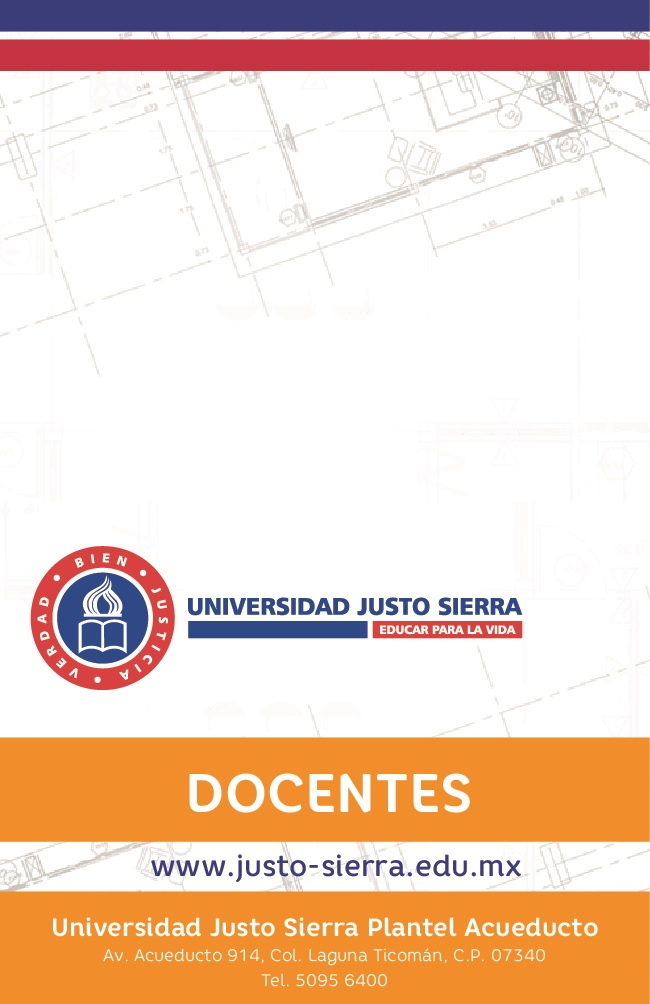
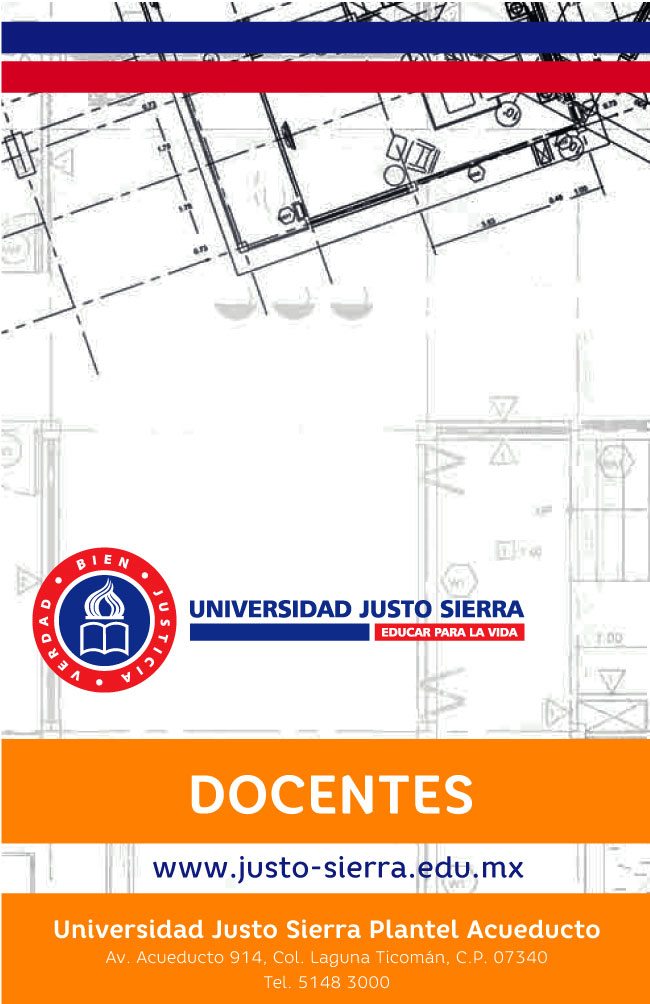
cambios en diseño de credenciales de universidad

diff --git a/SIPAA_CS/SIPAA_CS/Properties/Resources.Designer.cs b/SIPAA_CS/SIPAA_CS/Properties/Resources.Designer.cs
@@ -413,19 +413,9 @@ namespace SIPAA_CS.Properties {
         /// <summary>
         ///   Busca un recurso adaptado de tipo System.Drawing.Bitmap.
         /// </summary>
-        internal static System.Drawing.Bitmap credencialatras {
+        internal static System.Drawing.Bitmap credfirmada {
             get {
-                object obj = ResourceManager.GetObject("credencialatras", resourceCulture);
-                return ((System.Drawing.Bitmap)(obj));
-            }
-        }
-        
-        /// <summary>
-        ///   Busca un recurso adaptado de tipo System.Drawing.Bitmap.
-        /// </summary>
-        internal static System.Drawing.Bitmap credencialatrasfirmada {
-            get {
-                object obj = ResourceManager.GetObject("credencialatrasfirmada", resourceCulture);
+                object obj = ResourceManager.GetObject("credfirmada", resourceCulture);
                 return ((System.Drawing.Bitmap)(obj));
             }
         }
@@ -1313,16 +1303,6 @@ namespace SIPAA_CS.Properties {
         /// <summary>
         ///   Busca un recurso adaptado de tipo System.Drawing.Bitmap.
         /// </summary>
-        internal static System.Drawing.Bitmap odonm {
-            get {
-                object obj = ResourceManager.GetObject("odonm", resourceCulture);
-                return ((System.Drawing.Bitmap)(obj));
-            }
-        }
-        
-        /// <summary>
-        ///   Busca un recurso adaptado de tipo System.Drawing.Bitmap.
-        /// </summary>
         internal static System.Drawing.Bitmap Pass {
             get {
                 object obj = ResourceManager.GetObject("Pass", resourceCulture);
@@ -1413,16 +1393,6 @@ namespace SIPAA_CS.Properties {
         /// <summary>
         ///   Busca un recurso adaptado de tipo System.Drawing.Bitmap.
         /// </summary>
-        internal static System.Drawing.Bitmap preparatoria {
-            get {
-                object obj = ResourceManager.GetObject("preparatoria", resourceCulture);
-                return ((System.Drawing.Bitmap)(obj));
-            }
-        }
-        
-        /// <summary>
-        ///   Busca un recurso adaptado de tipo System.Drawing.Bitmap.
-        /// </summary>
         internal static System.Drawing.Bitmap RechDashboard20x20 {
             get {
                 object obj = ResourceManager.GetObject("RechDashboard20x20", resourceCulture);
@@ -1503,16 +1473,6 @@ namespace SIPAA_CS.Properties {
         /// <summary>
         ///   Busca un recurso adaptado de tipo System.Drawing.Bitmap.
         /// </summary>
-        internal static System.Drawing.Bitmap secundaria {
-            get {
-                object obj = ResourceManager.GetObject("secundaria", resourceCulture);
-                return ((System.Drawing.Bitmap)(obj));
-            }
-        }
-        
-        /// <summary>
-        ///   Busca un recurso adaptado de tipo System.Drawing.Bitmap.
-        /// </summary>
         internal static System.Drawing.Bitmap Sync {
             get {
                 object obj = ResourceManager.GetObject("Sync", resourceCulture);
@@ -1536,36 +1496,6 @@ namespace SIPAA_CS.Properties {
         internal static System.Drawing.Bitmap Sync30x30 {
             get {
                 object obj = ResourceManager.GetObject("Sync30x30", resourceCulture);
-                return ((System.Drawing.Bitmap)(obj));
-            }
-        }
-        
-        /// <summary>
-        ///   Busca un recurso adaptado de tipo System.Drawing.Bitmap.
-        /// </summary>
-        internal static System.Drawing.Bitmap universidad {
-            get {
-                object obj = ResourceManager.GetObject("universidad", resourceCulture);
-                return ((System.Drawing.Bitmap)(obj));
-            }
-        }
-        
-        /// <summary>
-        ///   Busca un recurso adaptado de tipo System.Drawing.Bitmap.
-        /// </summary>
-        internal static System.Drawing.Bitmap universidad2 {
-            get {
-                object obj = ResourceManager.GetObject("universidad2", resourceCulture);
-                return ((System.Drawing.Bitmap)(obj));
-            }
-        }
-        
-        /// <summary>
-        ///   Busca un recurso adaptado de tipo System.Drawing.Bitmap.
-        /// </summary>
-        internal static System.Drawing.Bitmap visitantes {
-            get {
-                object obj = ResourceManager.GetObject("visitantes", resourceCulture);
                 return ((System.Drawing.Bitmap)(obj));
             }
         }

diff --git a/SIPAA_CS/SIPAA_CS/RecursosHumanos/Reportes/CredencialEmpleado.cs b/SIPAA_CS/SIPAA_CS/RecursosHumanos/Reportes/CredencialEmpleado.cs
@@ -444,12 +444,12 @@ namespace SIPAA_CS.RecursosHumanos.Reportes
 
                 //Datos Reverso...
                 back = new ZMotifCard(ZMotifGraphics.ImageOrientationEnum.Portrait, ZMotifGraphics.RibbonTypeEnum.MonoK);
-                try { back.imgs.Add(ZMotifCard.background, new ZMotifImage(ImageToByteArray(Resources.credencialatrasfirmada), 0, 0, ZMotifGraphics.ImagePositionEnum.Centered, 648, 1024, 0)); }
+                try { back.imgs.Add(ZMotifCard.background, new ZMotifImage(ImageToByteArray(Resources.credfirmada), 0, 0, ZMotifGraphics.ImagePositionEnum.Centered, 648, 1024, 0)); }
                 catch { }
 
-                back.txts.Add("dep_d", new ZMotifText("Departamento:", 40f, 120f, "Myriad Pro", 8f, ZMotifGraphics.FontTypeEnum.Regular, System.Drawing.Color.Black));
+                back.txts.Add("dep_d", new ZMotifText("Departamento:", 40f, 120f, "Myriad Pro", 8f, ZMotifGraphics.FontTypeEnum.Bold, System.Drawing.Color.Black));
                 back.txts.Add("Departamento", new ZMotifText(Departamento, 40f, 160f, "Myriad Pro", 8f, ZMotifGraphics.FontTypeEnum.Bold, System.Drawing.Color.Black));
-                back.txts.Add("vig_d", new ZMotifText("Vigencia:", 40f, 275f, "Myriad Pro", 8f, ZMotifGraphics.FontTypeEnum.Regular, System.Drawing.Color.Black));
+                back.txts.Add("vig_d", new ZMotifText("Vigencia:", 40f, 275f, "Myriad Pro", 8f, ZMotifGraphics.FontTypeEnum.Bold, System.Drawing.Color.Black));
                 back.txts.Add("Vigencia", new ZMotifText(fcredEmp.date.ToShortDateString(), 40f, 315f, "Myriad Pro", 8f, ZMotifGraphics.FontTypeEnum.Bold, Color.Black));
                 /*back.txts.Add("ext_d", new ZMotifText("No. Exterior:", 40f, 410f, "Arial", 8f, ZMotifGraphics.FontTypeEnum.Regular, System.Drawing.Color.Black));
                 back.txts.Add("Exterior", new ZMotifText(Exterior, 250f, 410f, "Arial", 8f, ZMotifGraphics.FontTypeEnum.Bold, System.Drawing.Color.Black));
@@ -459,7 +459,7 @@ namespace SIPAA_CS.RecursosHumanos.Reportes
                 back.txts.Add("CP", new ZMotifText(CP, 490f, 460f, "Arial", 8f, ZMotifGraphics.FontTypeEnum.Bold, System.Drawing.Color.Black));
                 back.txts.Add("col_d", new ZMotifText("Colonia:", 40f, 530f, "Arial", 8f, ZMotifGraphics.FontTypeEnum.Regular, System.Drawing.Color.Black));
                 back.txts.Add("Colonia", new ZMotifText(Colonia, 40f, 580f, "Arial", 8f, ZMotifGraphics.FontTypeEnum.Bold, System.Drawing.Color.Black));*/
-                back.txts.Add("imss_d", new ZMotifText("I.M.S.S.:", 40f, 700f, "Myriad Pro", 8f, ZMotifGraphics.FontTypeEnum.Regular, System.Drawing.Color.Black));
+                back.txts.Add("imss_d", new ZMotifText("I.M.S.S.:", 40f, 700f, "Myriad Pro", 8f, ZMotifGraphics.FontTypeEnum.Bold, System.Drawing.Color.Black));
                 back.txts.Add("IMSS", new ZMotifText(IMSS, 200f, 700f, "Myriad Pro", 8f, ZMotifGraphics.FontTypeEnum.Bold, System.Drawing.Color.Black));
                 //back.txts.Add("firm_d", new ZMotifText("FIRMA TRABAJADOR", 150f, 970f, "Arial", 8f, ZMotifGraphics.FontTypeEnum.Bold, System.Drawing.Color.Black));
 
@@ -509,14 +509,6 @@ namespace SIPAA_CS.RecursosHumanos.Reportes
                     return Resources.administrativos;
                 case "docentes":
                     return Resources.docentes;
-                case "secundaria":
-                    return Resources.secundaria;
-                case "preparatoria":
-                    return Resources.preparatoria;
-                case "universidad":
-                    return Resources.universidad2;
-                case "visitantes":
-                    return Resources.visitantes;
                 default:
                     return Resources._default;
             }

diff --git a/SIPAA_CS/SIPAA_CS/RecursosHumanos/Reportes/CredencialEmpleado.Designer.cs b/SIPAA_CS/SIPAA_CS/RecursosHumanos/Reportes/CredencialEmpleado.Designer.cs
@@ -794,11 +794,7 @@
             this.comboBox3.FormattingEnabled = true;
             this.comboBox3.Items.AddRange(new object[] {
             "administrativos",
-            "docentes",
-            "secundaria",
-            "preparatoria",
-            "universidad",
-            "visitantes"});
+            "docentes"});
             this.comboBox3.Location = new System.Drawing.Point(465, 108);
             this.comboBox3.Name = "comboBox3";
             this.comboBox3.Size = new System.Drawing.Size(254, 25);
